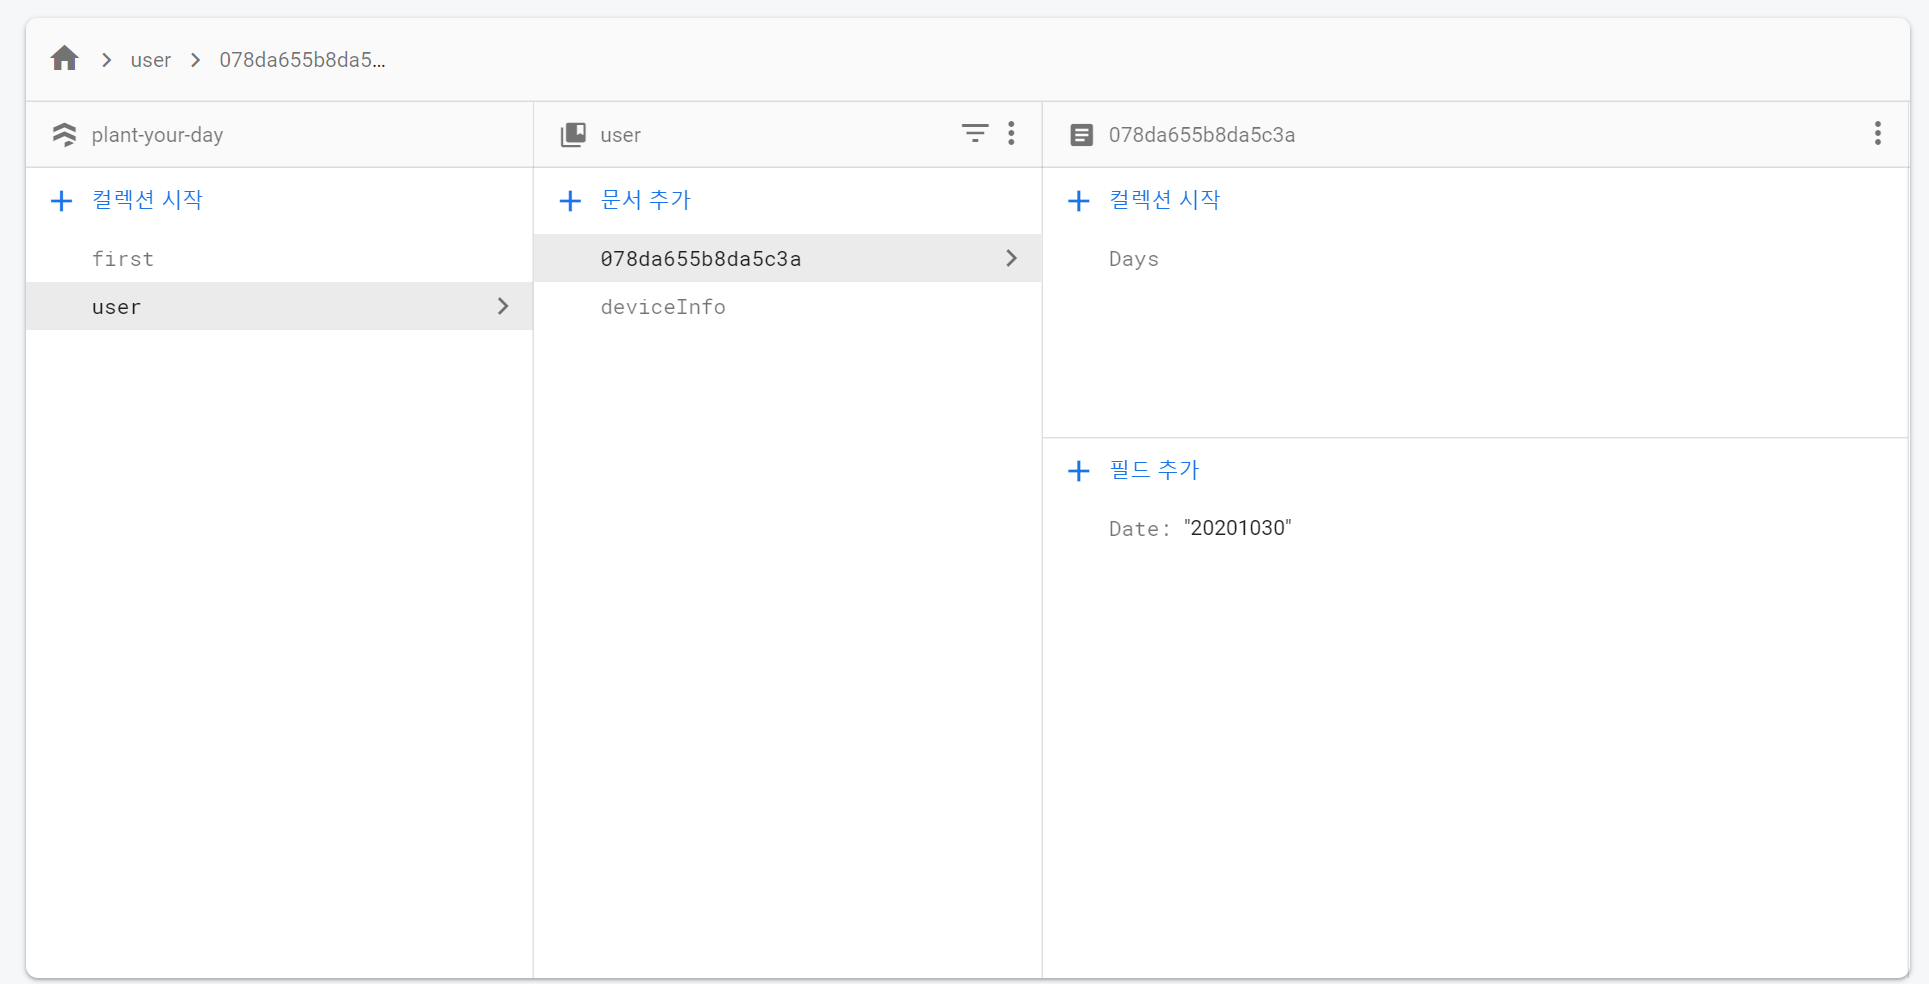
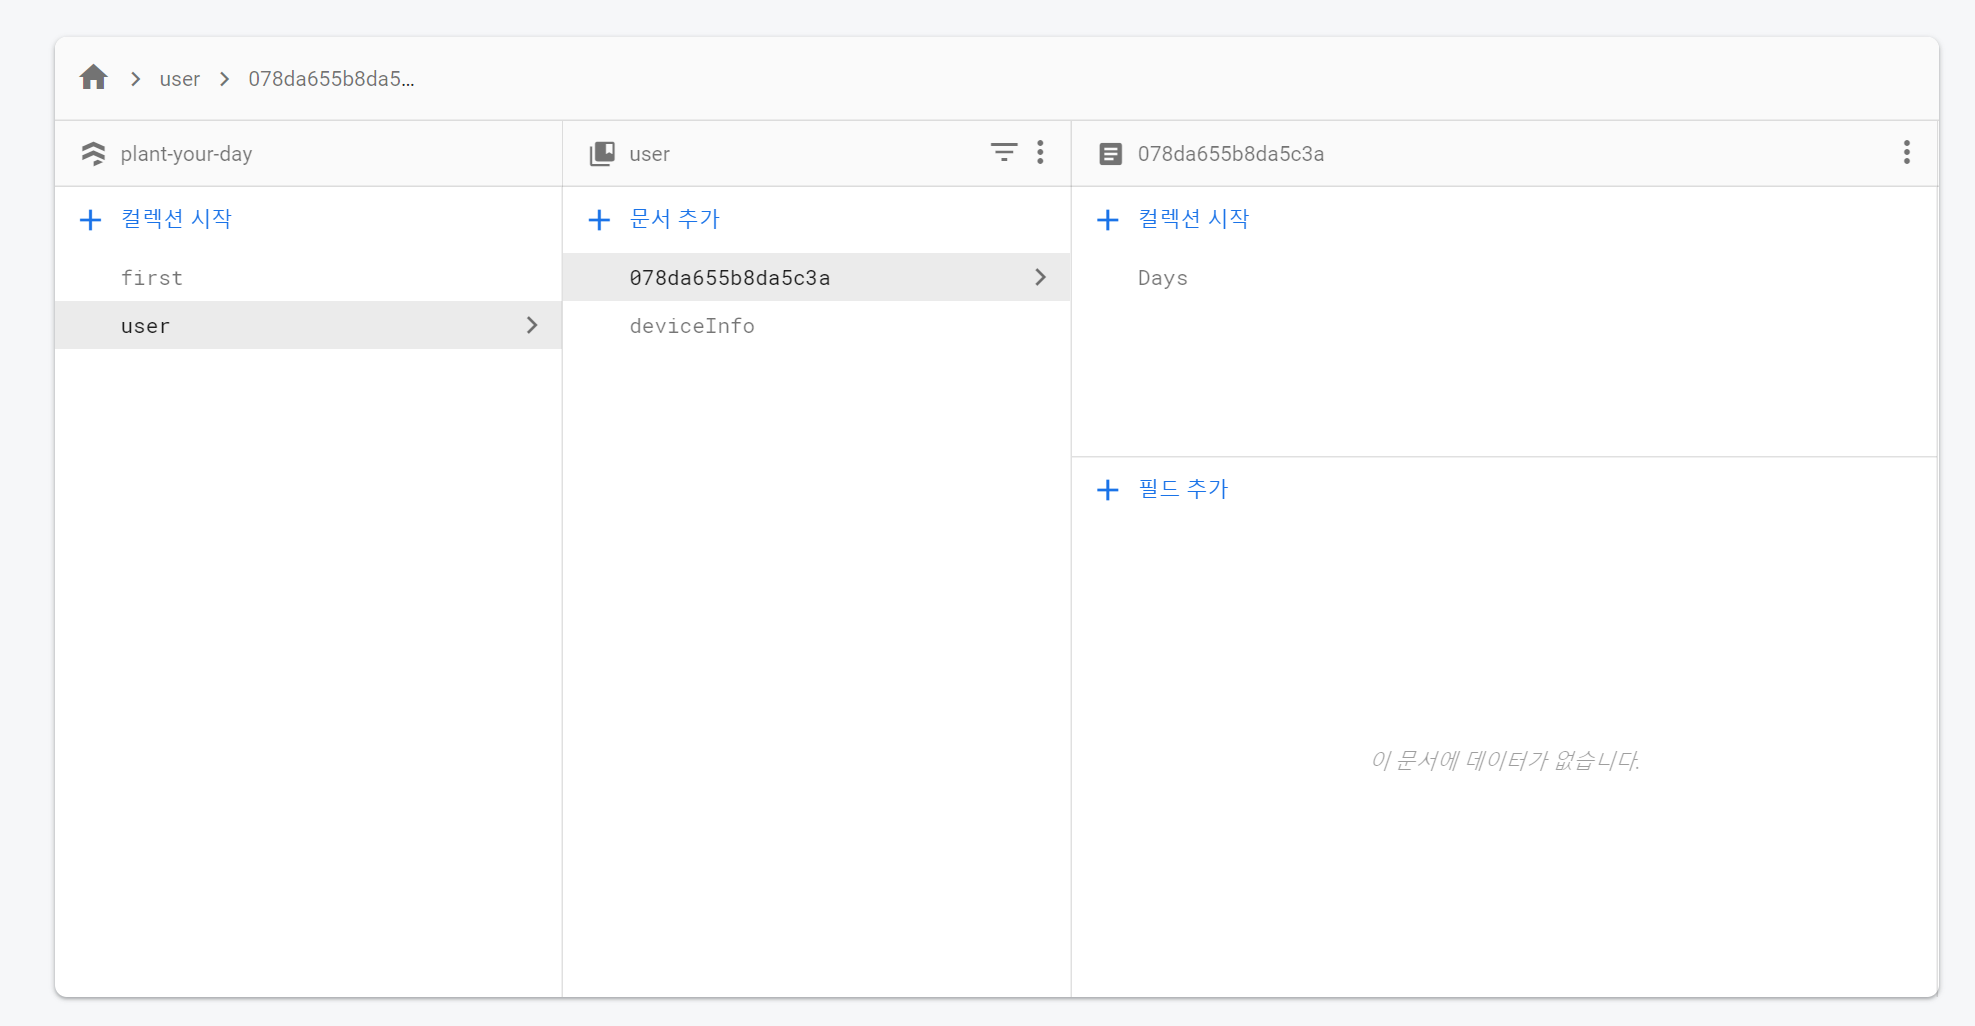
현재DB 사진 재업로드

diff --git a/ProjectCheckout/06/minj0i.md b/ProjectCheckout/06/minj0i.md
@@ -11,7 +11,7 @@
 
 * 현재DB 구조
 ![현재DB](../../ProjectReadme/assets-minj0i/img/c-db.png)
-
+![현재DB2](../../ProjectReadme/assets-minj0i/img/c-db2.png)
 
 > ### 이번주 목표(TO DO)
 * CRUD
